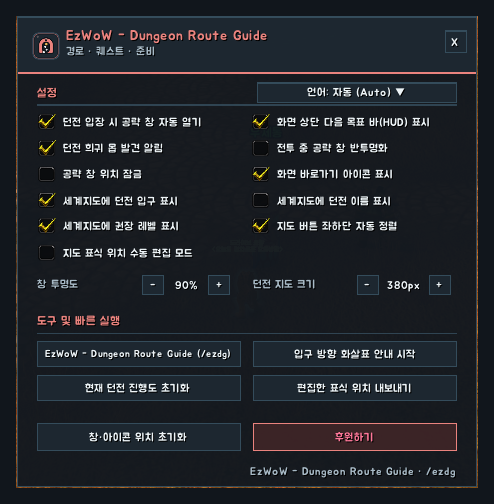
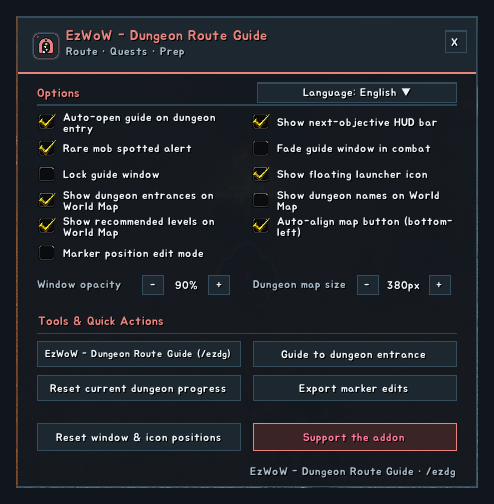
영어 설명용 게임 화면 추가

diff --git a/docs/curseforge_description.md b/docs/curseforge_description.md
@@ -13,7 +13,7 @@ A dungeon route guide for WoW Forever. **18 dungeons and 29 area maps** are draw
 
 ![Settings window](https://raw.githubusercontent.com/qqhrqqhr2/EzWoW-DungeonRouteGuide/master/docs/images/settings_en.png)
 
-*In-game screenshots (WoW Forever, Korean client). Character and player names and chat text are blurred.*
+*In-game screenshots with the addon set to English. The game client is Korean, so game text such as zone, item and spell names stays Korean. Character and player names and chat text are blurred.*
 
 ## Features
 

diff --git a/README.md b/README.md
@@ -140,7 +140,7 @@ A dungeon route guide. **18 dungeons and 29 floor maps** use real minimap-tile a
 
 ![Settings window](docs/images/settings_en.png)
 
-> In-game screenshots (WoW Forever, Korean client). Character and player names and chat text are blurred.
+> In-game screenshots with the addon set to English. The game client is Korean, so game text such as zone, item and spell names stays Korean. Character and player names and chat text are blurred.
 
 ### Installation
 
